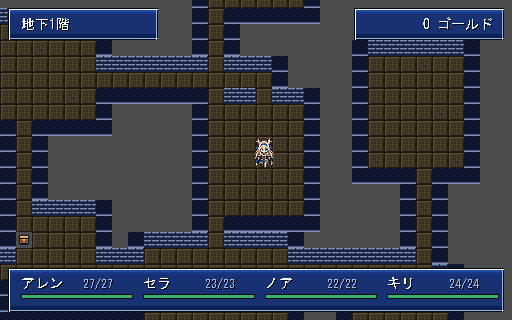
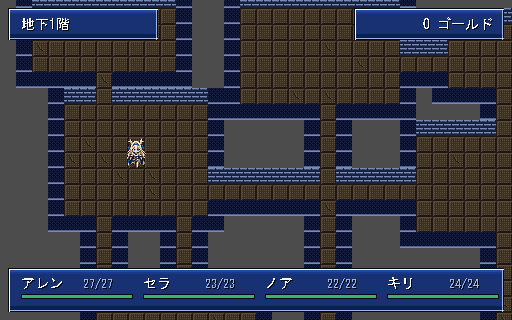
タイルの取り込みに床と壁の見分け判定を入れる
外で描いたマップチップ（144x16 / 15 色 / BGR555 / アルファ 2 値）は寸法も
色数も規約を満たしていたが、床の平均明度 46.3 に対して壁が 43.3、色相も同じ紺で、
実際に画面に出すとどこを歩けるのか読めなかった。

床と壁は「通れる／通れない」を伝える唯一の手がかりなので、質感より先に
離れて見えることが要る。明度差 12 を下限として生成器に測らせ、
足りない絵は理由を出して見送り、従来の ASCII タイルへ落ちるようにした。

タイルシートの取り込み口自体は残してあるので、差を付けた版を置けば自動で入る。

diff --git a/tools/gen_assets.py b/tools/gen_assets.py
@@ -341,8 +341,60 @@ TILE_SHOP = [
 ]
 
 
+## タイルシートの寸法（16x16 を 9 枚、横一列）。取り込みの検算に使う。
+TILESET_SIZE = (TILE * 9, TILE)
+
+## 床と壁の明度差の下限。
+##
+## この 2 枚は「通れる／通れない」を伝える唯一の手がかりなので、
+## 質感の良さより先に**離れて見えること**が要る。実際に、取り込んだ候補が
+## 床 46.3 / 壁 43.3（差 3.0、色相も同じ紺）で、どこを歩けるのか読めなかった。
+MIN_FLOOR_WALL_LUMA = 12.0
+
+
+def _mean_luma(sheet: Canvas, index: int) -> float:
+    """タイル 1 枚の平均明度。透明は数えない。"""
+    px = [
+        sheet.get(index * TILE + x, y)
+        for y in range(TILE)
+        for x in range(TILE)
+        if sheet.get(index * TILE + x, y)[3]
+    ]
+    if not px:
+        return 0.0
+    return sum(0.299 * p[0] + 0.587 * p[1] + 0.114 * p[2] for p in px) / len(px)
+
+
+def _tileset_readable(sheet: Canvas) -> tuple[bool, str]:
+    """床と壁が見分けられるか。見分けられない絵は、綺麗でも採用しない。"""
+    floor = _mean_luma(sheet, 0)
+    wall = _mean_luma(sheet, 2)
+    gap = abs(floor - wall)
+    if gap >= MIN_FLOOR_WALL_LUMA:
+        return True, ""
+    return False, (
+        "床と壁の明度差が %.1f しかない（%.1f 以上必要）。床 %.1f / 壁 %.1f。"
+        % (gap, MIN_FLOOR_WALL_LUMA, floor, wall)
+    )
+
+
 def build_tileset() -> None:
-    """9 枚を横一列に並べた 144x16 のタイルシート。"""
+    """9 枚を横一列に並べた 144x16 のタイルシート。
+
+    外で描いたものがあればそれを採用する。並び順（床・ひび割れ床・壁・天面・
+    階段・扉・宝箱・虚空・出店）は DungeonMap の enum と一致させること。
+    """
+    imported = _load_sheet("candidate_tiles_dungeon", TILESET_SIZE)
+    if imported is not None:
+        readable, reason = _tileset_readable(imported)
+        if readable:
+            imported.to_png(ASSETS / "tiles" / "dungeon.png")
+            imported.scaled(6).to_png(PREVIEW / "dungeon.png")
+            print("  取り込み: dungeon.png（chara_image/candidate_tiles_dungeon.png）")
+            return
+        # 採用しない。ここで黙って通すと、綺麗だが遊べない地形が出来上がる。
+        print("  見送り: candidate_tiles_dungeon.png — " + reason)
+
     tiles = [
         tile_floor(),
         tile_floor(cracked=True),
@@ -755,46 +807,47 @@ HERO_SOURCE_DIR = ROOT / "docs" / "chara_image"
 ## 「SFC らしさは技巧ではなく制約の徹底から出る」という前提を、
 ## 外から来た絵にも同じように当てはめる。
 HERO_SHEET_SIZE = (CHAR_W * 3, CHAR_H * 4)
-HERO_MAX_COLORS = 15
+MAX_COLORS = 15
 
 
-def _verify_hero_sheet(job: str, sheet: Canvas) -> None:
-    """取り込んだシートが SFC の制約を守っているかを検算する。
+def _verify_sheet(label: str, sheet: Canvas, size: tuple[int, int]) -> None:
+    """取り込んだ絵が SFC の制約を守っているかを検算する。
 
     黙って通すと、色数もアルファもばらばらな絵が assets/ に混ざり、
-    「なぜか 1 人だけ浮いている」の原因が追えなくなる。
+    「なぜか 1 枚だけ浮いている」の原因が追えなくなる。
+    SFC らしさは技巧ではなく制約の徹底から出るので、外から来た絵にも同じ条件を課す。
     """
-    if (sheet.w, sheet.h) != HERO_SHEET_SIZE:
+    if (sheet.w, sheet.h) != size:
         raise ValueError(
-            "%s: シートは %dx%d でなければならない（%dx%d だった）"
-            % (job, HERO_SHEET_SIZE[0], HERO_SHEET_SIZE[1], sheet.w, sheet.h)
+            "%s: %dx%d でなければならない（%dx%d だった）"
+            % (label, size[0], size[1], sheet.w, sheet.h)
         )
 
     alphas = {p[3] for p in sheet.px}
     if not alphas <= {0, 255}:
-        raise ValueError("%s: アルファは 0 か 255 だけにする（%s があった）" % (job, sorted(alphas)))
+        raise ValueError("%s: アルファは 0 か 255 だけにする（%s があった）" % (label, sorted(alphas)))
 
     colors = {p[:3] for p in sheet.px if p[3] == 255}
-    if len(colors) > HERO_MAX_COLORS:
+    if len(colors) > MAX_COLORS:
         raise ValueError(
-            "%s: 透明を除いて %d 色まで（%d 色あった）" % (job, HERO_MAX_COLORS, len(colors))
+            "%s: 透明を除いて %d 色まで（%d 色あった）" % (label, MAX_COLORS, len(colors))
         )
 
     off = [c for c in colors if snes("#%02X%02X%02X" % c) != c]
     if off:
         raise ValueError(
             "%s: BGR555 に乗っていない色が %d 個ある（例 #%02X%02X%02X）"
-            % (job, len(off), off[0][0], off[0][1], off[0][2])
+            % (label, len(off), off[0][0], off[0][1], off[0][2])
         )
 
 
-def _load_hero_sheet(job: str) -> Canvas | None:
-    """外で描いた歩行シートを読む。無ければ None。"""
-    path = HERO_SOURCE_DIR / f"candidate_hero_{job}.png"
+def _load_sheet(stem: str, size: tuple[int, int]) -> Canvas | None:
+    """外で描いた絵を読む。無ければ None（＝ ASCII マップから起こす方に落ちる）。"""
+    path = HERO_SOURCE_DIR / f"{stem}.png"
     if not path.exists():
         return None
     sheet = load_png(path)
-    _verify_hero_sheet(job, sheet)
+    _verify_sheet(stem, sheet, size)
     return sheet
 
 
@@ -816,7 +869,7 @@ def build_heroes() -> None:
     for job in HERO_ACCENTS:
         # 外で描いたシートがあればそれを使う。ASCII マップは土台として残す
         # （素材が無い環境でも生成が通り、差分もレビューできる状態を保つため）。
-        imported = _load_hero_sheet(job)
+        imported = _load_sheet(f"candidate_hero_{job}", HERO_SHEET_SIZE)
         if imported is not None:
             imported.to_png(ASSETS / "sprites" / f"hero_{job}.png")
             imported.scaled(4).to_png(PREVIEW / f"hero_{job}.png")

diff --git a/tasks.md b/tasks.md
@@ -12,9 +12,16 @@
 
 ## 次にやる（効き目の大きい順）
 
+- [ ] **マップチップを描き直す（床と壁の明度差を 12 以上に）。**
+      `candidate_tiles_dungeon.png` は 144x16 / 15 色 / BGR555 まで揃っていたが、
+      床 46.3 に対し壁 43.3（差 3.0）で色相も同じ紺のため、どこを歩けるか読めなかった。
+      生成器が明度差を測って見送るようにしてあるので、差を付けた版を置けば自動で入る。
+      床は色相を変える（元の版は茶色の床 + 紺の壁で、そこは読めていた）。
 - [ ] **敵のドット絵を味方と同じ水準に上げる。** 味方だけ差し替えたので、
-      いま敵が浮いている。`docs/chara_image/candidate_hero_*.png` と同じ経路で
-      48px の敵シートを作り、`tools/gen_assets.py` の取り込み口に通す。
+      いま敵が浮いている。`candidate_hero_*.png` と同じ経路で 48px の敵シートを作る。
+- [ ] **拡張職 3 つ（ranger / spellblade / summoner）の絵が既に置かれている。**
+      絵は規約を満たしているが、`data/jobs.json` の熟練・解放条件・成長率と、
+      `balance.gd` での測り直しが要る。絵の取り込みだけでは職業は増えない。
 - [ ] **敵 AI が弱点も状態異常も使い分けない。** 「使える技から等確率で選ぶ」だけなので、
       深層の敵ほど的外れな手を打つ。属性の相性と残 HP を見る程度に上げる。
 - [ ] **装備が出店にしか出ない。** 宝箱から装備が出れば、道中の宝箱を開ける理由が増える。
@@ -57,6 +64,8 @@
 - `DungeonMap.route()` を足した。酔歩では 3 分遊んでも 1 階から出られなかった。
 - 入力をイベント判定に統一した。`_unhandled_input` の中で
   `Input.is_action_just_pressed()` を見ると、1 フレームに 2 つ届いた入力を取りこぼす。
+- タイルの取り込みに「床と壁の明度差」の判定を入れた。綺麗でも遊べない地形を
+  黙って通さないため。判定に落ちたら従来の ASCII タイルへ落ちる。
 - 味方のドット絵を外で描いたシートに差し替えた。ASCII マップでは後期 SFC の密度に
   届かなかった。取り込み口は生成器に置き、SFC の制約（72x128 / 15 色 / アルファ 2 値 /
   BGR555）を検算してから採用する。
